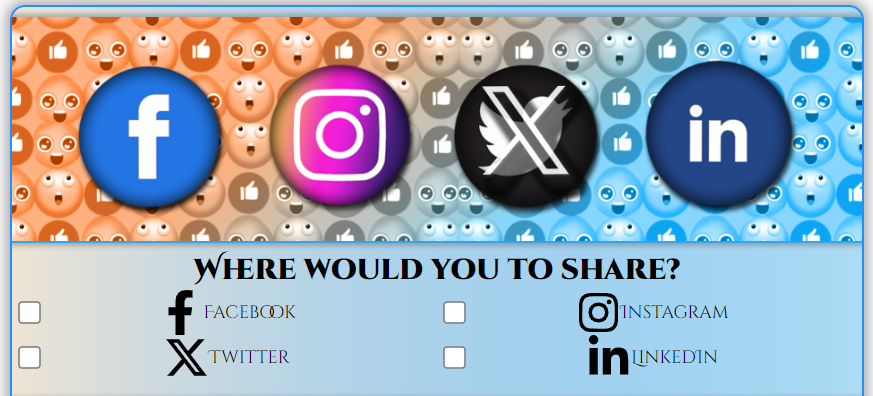
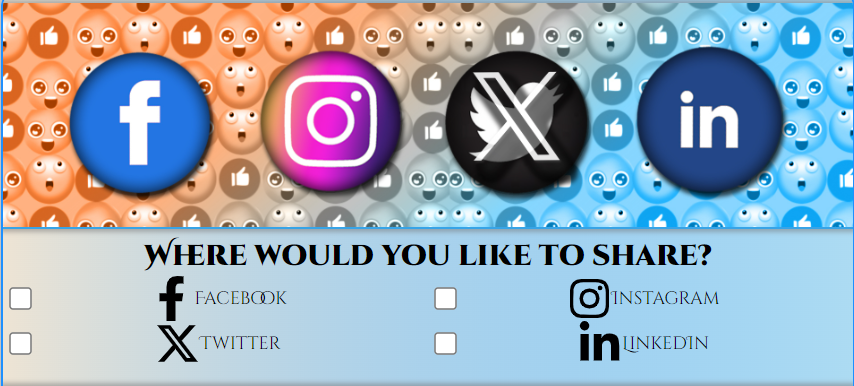
update typo error

diff --git a/FrontEnd/src/components/home/PostCreator.jsx b/FrontEnd/src/components/home/PostCreator.jsx
@@ -153,7 +153,7 @@ Post: (post text for selected platform here)
             <form className="post-container">
               <LayoutRow
                 name="social"
-                title="Where would you to share?"
+                title="Where would you like to share?"
                 image={mediaIconsLogo}
                 imageAlt="Social Media Icons"
               >
